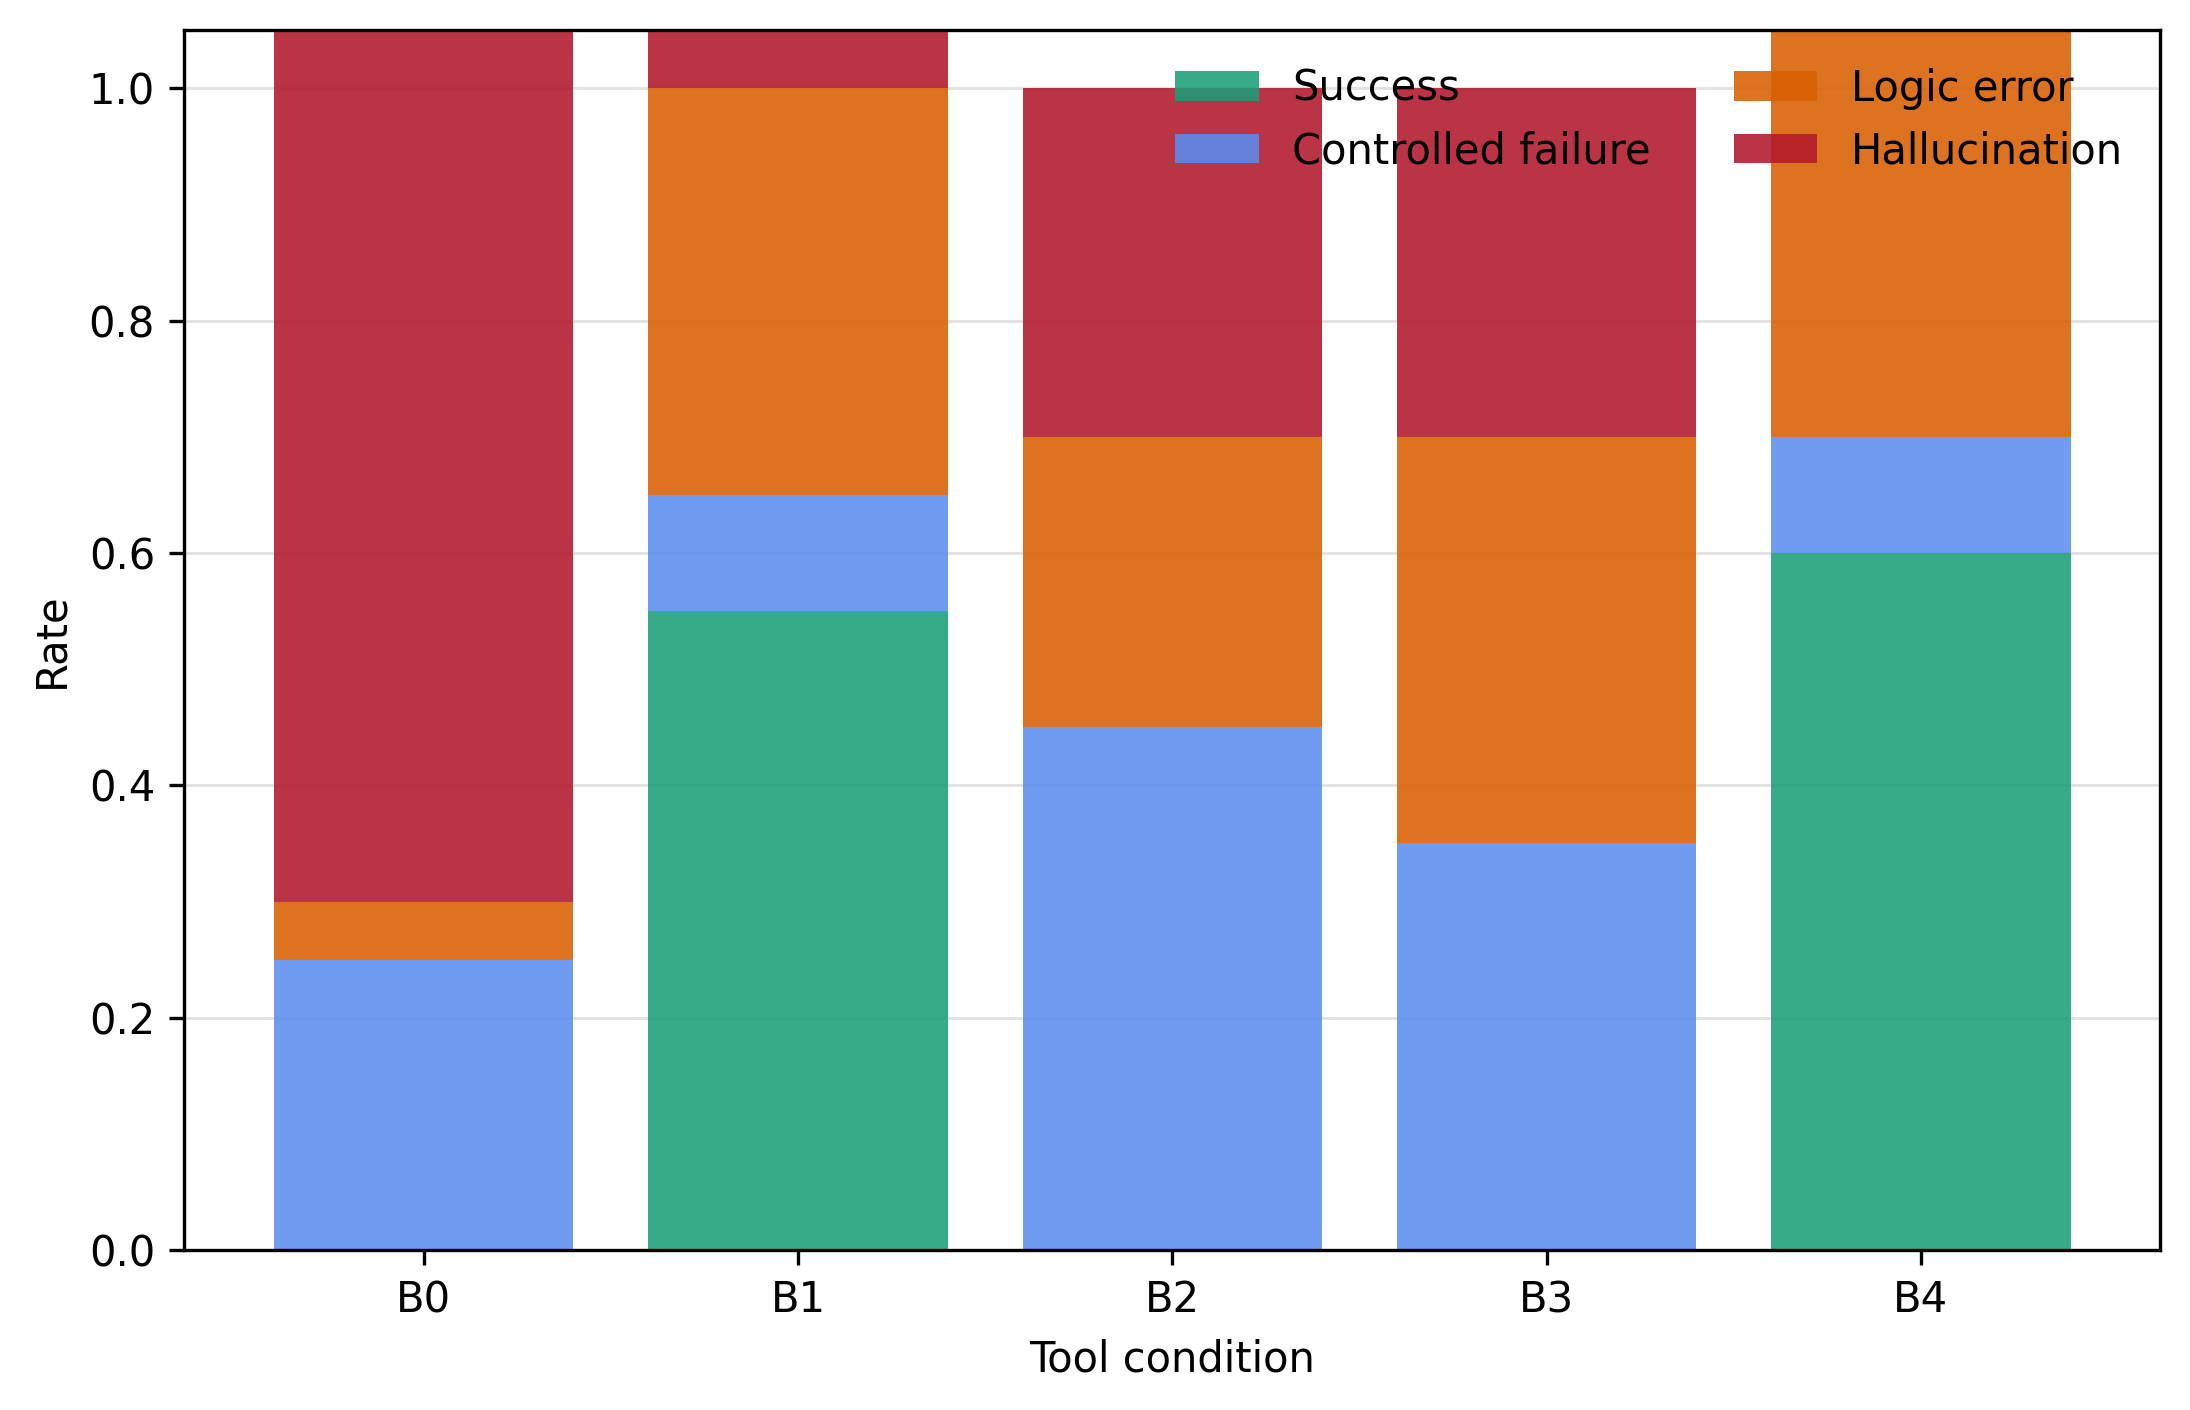
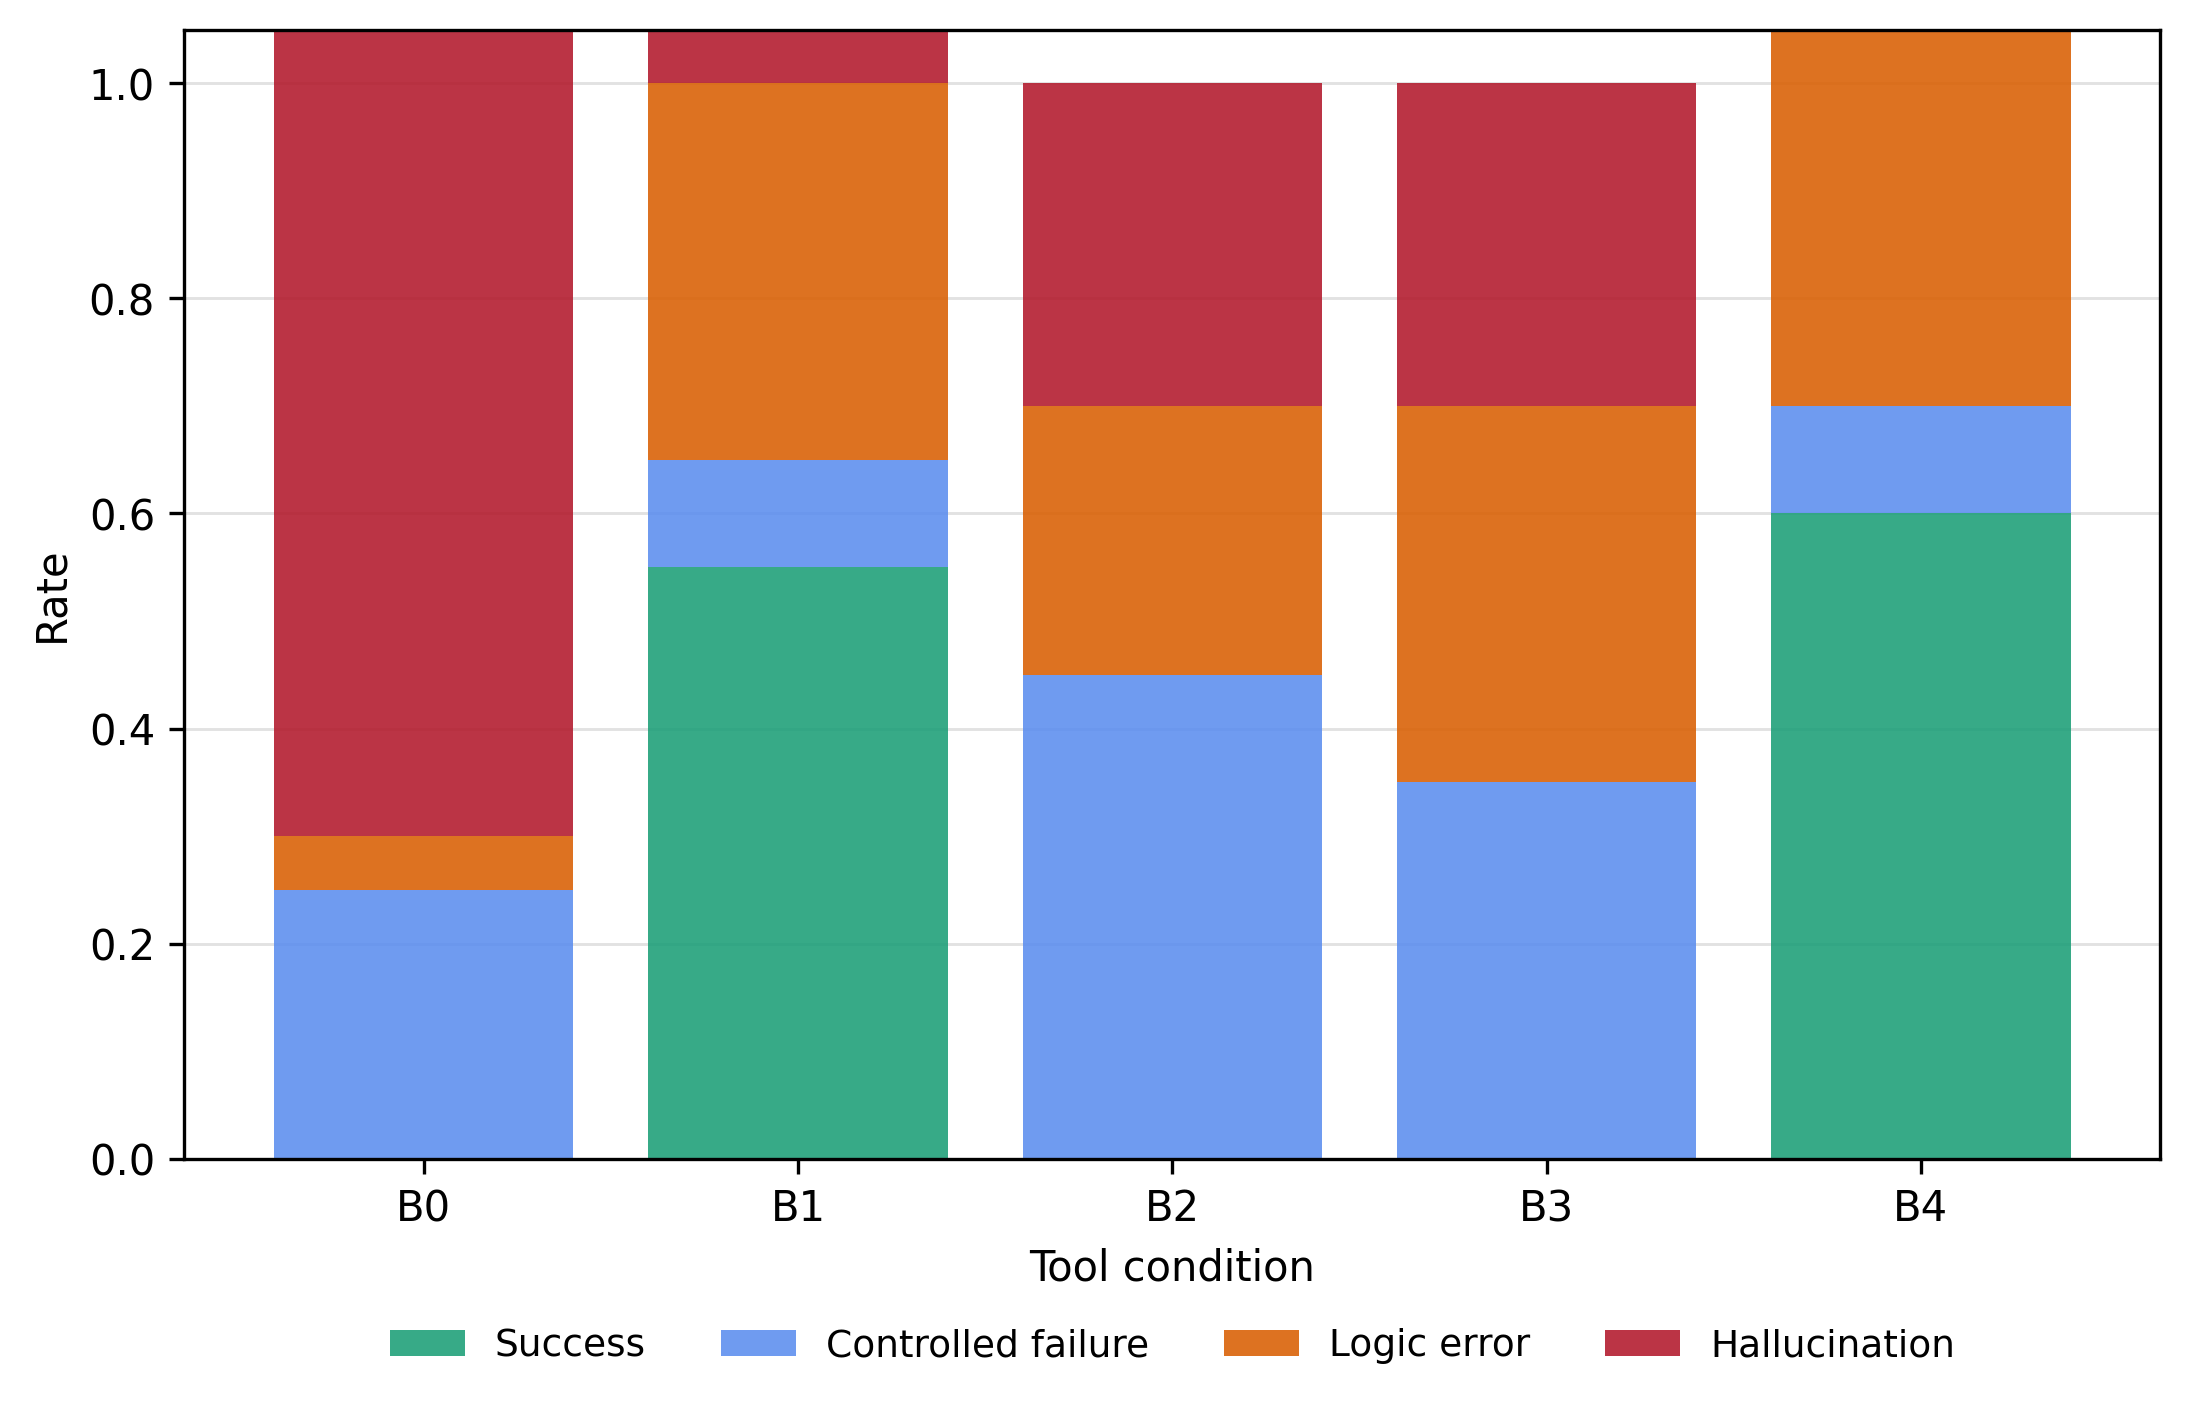
chore(figures): tighten exp3/exp4 figure styling + drop legacy exp1 figures
Figure styling fixes:
- exp4 fig_exp4_recovery_cost.png (Fig 4.8): x-tick labels on a single line,
  parentheses removed (`B0 basic`, `B1 full toolchain`, ...). Figure widened
  to 10.5in so the five labels fit without wrapping.
- exp4 fig_exp4_failure_mode_stack.png (Fig 4.7): legend moved below the
  axes (was overlapping the top of the B0 hallucination bar at y=1.05).
- exp3 fig_exp3_task_heatmap.png (Fig 4.6): annotation color now flips to
  white when cell value > 0.55 so the bold numbers stay legible against
  the dark YlGnBu cells.

Legacy exp1 figures removed:
- fig1_noninferiority.png, fig2_search_efficiency.png, figS1_token_breakdown.png
  were carry-overs from an earlier compile pipeline; paper_text never used
  them (all marked "(planned)"). The actually-cited figures are
  fig_exp1_per_basin_winner.png, fig_exp1_budget_ablation.png, and
  fig_exp1_cost_vs_quality.png.
- Updated README.md, paper_text_exp1.md, and PAPER_DATA_INDEX.md to point
  at the live figures and drop the planned/legacy references.

diff --git a/experiment/exp4/plot_results.py b/experiment/exp4/plot_results.py
@@ -44,7 +44,8 @@ def _plot_failure_stack(compiled: dict, out) -> None:
     ax.set_ylim(0, 1.05)
     ax.set_ylabel("Rate")
     ax.set_xlabel("Tool condition")
-    ax.legend(frameon=False, ncol=2)
+    ax.legend(frameon=False, ncol=4, loc="upper center",
+              bbox_to_anchor=(0.5, -0.12), fontsize=9)
     ax.grid(axis="y", color="#DDDDDD", linewidth=0.7, alpha=0.85)
     ax.set_axisbelow(True)
     fig.tight_layout()
@@ -76,7 +77,7 @@ def _plot_recovery_cost(compiled: dict, out) -> None:
         ("create_skill_rate",   "create_skill",     "#7570B3"),
     ]
 
-    fig, ax = plt.subplots(figsize=(8.5, 4.8))
+    fig, ax = plt.subplots(figsize=(10.5, 4.8))
     x = np.arange(len(conditions))
     width = 0.20
     for i, (key, label, color) in enumerate(metrics):
@@ -90,12 +91,12 @@ def _plot_recovery_cost(compiled: dict, out) -> None:
                         f"{int(round(v*100))}%", ha="center", fontsize=8)
 
     ax.set_xticks(x)
-    ax.set_xticklabels([f"{c}\n({_condition_label(c)})" for c in conditions])
+    ax.set_xticklabels([f"{c} {_condition_label(c)}" for c in conditions], fontsize=9)
     ax.set_ylabel("Rate (n = 20 per condition)")
     ax.set_title("Failure-mode + dynamic-recovery comparison across tool conditions")
     ax.set_ylim(0, 1.0)
     ax.axhline(0.0, color="#888888", linewidth=0.8)
-    ax.legend(ncol=4, loc="upper center", bbox_to_anchor=(0.5, -0.10),
+    ax.legend(ncol=4, loc="upper center", bbox_to_anchor=(0.5, -0.13),
               frameon=False, fontsize=9)
     ax.grid(axis="y", alpha=0.3)
     fig.tight_layout()
@@ -105,8 +106,8 @@ def _plot_recovery_cost(compiled: dict, out) -> None:
 
 def _condition_label(cid: str) -> str:
     return {"B0": "basic", "B1": "full toolchain",
-            "B2": "+create_skill", "B3": "+create_skill\n+policy",
-            "B4": "base+create_skill\n+policy"}.get(cid, cid)
+            "B2": "+create_skill", "B3": "+create_skill +policy",
+            "B4": "base +create_skill +policy"}.get(cid, cid)
 
 
 def main() -> None:

diff --git a/experiment/exp3/plot_results.py b/experiment/exp3/plot_results.py
@@ -75,11 +75,16 @@ def _plot_task_heatmap(compiled: dict, out: Path) -> None:
     ax.set_xticklabels([c["condition_id"] for c in CONDITIONS])
     ax.set_yticks(range(len(TASKS)))
     ax.set_yticklabels([f"{t['task_id']} {t['task_name']}" for t in TASKS])
+    # YlGnBu colormap is dark above ~0.55, so flip annotation color to white
+    # there to keep numbers legible against the dark cells.
     for i in range(arr.shape[0]):
         for j in range(arr.shape[1]):
             val = arr[i, j]
-            label = "" if np.isnan(val) else f"{val:.2f}"
-            ax.text(j, i, label, ha="center", va="center", color="#111111", fontsize=9)
+            if np.isnan(val):
+                continue
+            text_color = "#FFFFFF" if val > 0.55 else "#111111"
+            ax.text(j, i, f"{val:.2f}", ha="center", va="center",
+                    color=text_color, fontsize=10, fontweight="bold")
     ax.set_xlabel("Knowledge input condition")
     ax.set_title("Task success rate")
     fig.colorbar(im, ax=ax, fraction=0.046, pad=0.04)

diff --git a/experiment/exp1/paper_text_exp1.md b/experiment/exp1/paper_text_exp1.md
@@ -21,9 +21,9 @@ regardless of trial_idx).
 | Table 3.3 (method-level aggregate) | `experiment/exp1/tables/table_exp1_method_aggregate.csv` | One row per method with panel mean + stdev best test NSE, total cost. |
 | Per-trial breakdown | `experiment/exp1/tables/table_exp1_per_trial.csv` | 92 rows. One per (method, basin, trial). Columns: `objective`, `budget_level`, `range_policy`, `rep`, `ngs`, `kstop`, `peps`, `pcento`, `stop_flag`, train+test NSE+KGE, prompt/completion/cached/total tokens, `llm_decision_time_s`, `wall_time_s`, `active_seconds`, `boundary_hits`, `error`. |
 | Per-step decision-time | `experiment/exp1/tables/table_exp1_per_step_time.csv` | One row per (method, basin, trial). `decision_time_s` = `active_seconds` for M1 (human typing the menu choice) and `llm_decision_elapsed_s` for M2 (LLM call latency). Direct same-unit comparison for the "token-for-time" claim. |
-| Fig 1 non-inferiority | `experiment/exp1/figures/fig1_noninferiority.png` | (planned) M1 vs M2 best NSE scatter with ±0.05 NSE bands. |
-| Fig 2 budget ablation | `experiment/exp1/figures/fig2_search_efficiency.png` | (planned) Best NSE vs budget level (M0_min/M0/M0_max) + M1/M2 best as horizontal references per basin. |
-| Fig 3 per-basin trajectory | (planned) | best-so-far NSE vs trial index, M1 vs M2 vs M2 Mode B. |
+| Fig per-basin winner | `experiment/exp1/figures/fig_exp1_per_basin_winner.png` | 6-method x 5-basin bar chart; golden star marks per-basin global best test NSE (Findings 3+4). |
+| Fig budget ablation | `experiment/exp1/figures/fig_exp1_budget_ablation.png` | Best NSE vs budget level (M0_min/M0/M0_max), one line per basin, M1_B dotted reference (Finding 1). |
+| Fig cost vs quality | `experiment/exp1/figures/fig_exp1_cost_vs_quality.png` | Two-panel scatter: (wall time, NSE) and (human-attended-or-tokens, NSE). Used in 4.2. |
 
 ## Table 3.1. Basin panel (5 GR4J basins)
 
@@ -123,10 +123,9 @@ The LLM is therefore ~4× faster per decision than the human and the decision ti
 
 ## Figures
 
-- **Figure 1** `experiment/exp1/figures/fig1_noninferiority.png` — pending: planned as M1 vs M2_B best-NSE scatter against 1:1 with ±0.05 band.
-- **Figure 2** `experiment/exp1/figures/fig2_search_efficiency.png` — pending: planned as best-so-far median test NSE vs trial index, M1_B vs M2_B vs M2_A overlaid, with M0_min/M0/M0_max as horizontal reference lines.
-- **Figure 3** (new) — planned: per-basin best NSE bar chart across the 6 methods, highlighting the basin-by-basin winner heterogeneity (Finding 3).
-- **Figure S1** `experiment/exp1/figures/figS1_token_breakdown.png` — pending: M2_A vs M2_B token breakdown.
+- **Per-basin winner** `experiment/exp1/figures/fig_exp1_per_basin_winner.png` — 6-method x 5-basin bar chart with a golden-star per-basin global best (visual for Findings 3+4).
+- **Budget ablation** `experiment/exp1/figures/fig_exp1_budget_ablation.png` — best test NSE vs budget level (M0_min/M0/M0_max), one line per basin, M1_B as dotted reference (visual for Finding 1).
+- **Cost vs quality** `experiment/exp1/figures/fig_exp1_cost_vs_quality.png` — two-panel scatter of (wall time, NSE) and (human-attended-or-tokens, NSE) (visual for 4.2).
 
 ## Methodology recap
 

diff --git a/experiment/exp1/README.md b/experiment/exp1/README.md
@@ -71,11 +71,11 @@ Tables:
 - `experiment/exp1/tables/table2_core_results.csv`
 - `experiment/exp1/tables/tableS1_task_level_results.csv`
 
-Figures:
+Figures (paper-facing, all generated by `plot_cross_mode.py`):
 
-- `experiment/exp1/figures/fig1_noninferiority.png`
-- `experiment/exp1/figures/fig2_search_efficiency.png`
-- `experiment/exp1/figures/figS1_token_breakdown.png`
+- `experiment/exp1/figures/fig_exp1_per_basin_winner.png` — 6-method x 5-basin bars + golden-star per-basin winner (Findings 3+4).
+- `experiment/exp1/figures/fig_exp1_budget_ablation.png` — best NSE vs budget level, one line per basin, M1_B dotted reference (Finding 1).
+- `experiment/exp1/figures/fig_exp1_cost_vs_quality.png` — two-panel scatter for the §4.2 token-for-time argument.
 
 ## Run Order
 

diff --git a/experiment/PAPER_DATA_INDEX.md b/experiment/PAPER_DATA_INDEX.md
@@ -61,7 +61,6 @@ Basin list is in `experiment/exp1/common.py:BASINS`. XAJ is excluded because the
   - `fig_exp1_per_basin_winner.png` — 6-method × 5-basin bar chart with golden-star marking the per-basin global best (Findings 3+4 visual).
   - `fig_exp1_budget_ablation.png` — best NSE vs budget level (M0_min/M0/M0_max), one line per basin, M1_B as dotted reference (Finding 1 visual).
   - `fig_exp1_cost_vs_quality.png` — two-panel scatter of (wall time, NSE) and (human-attended-or-tokens, NSE) (§4.2 visual).
-  - `fig1_noninferiority.png` / `fig2_search_efficiency.png` / `figS1_token_breakdown.png` (legacy from earlier compile pipeline; will be regenerated or deprecated).
 - Raw records: `results/paper/exp1_v2/<method>/trials.jsonl` (Mode A + M0 ablation) and `results/paper/exp1_v2_modeb/<method>/trials.jsonl` (Mode B); M2_B v6 backup at `results/paper/exp1_v2_modeb_m2_v6/`.
 
 ---